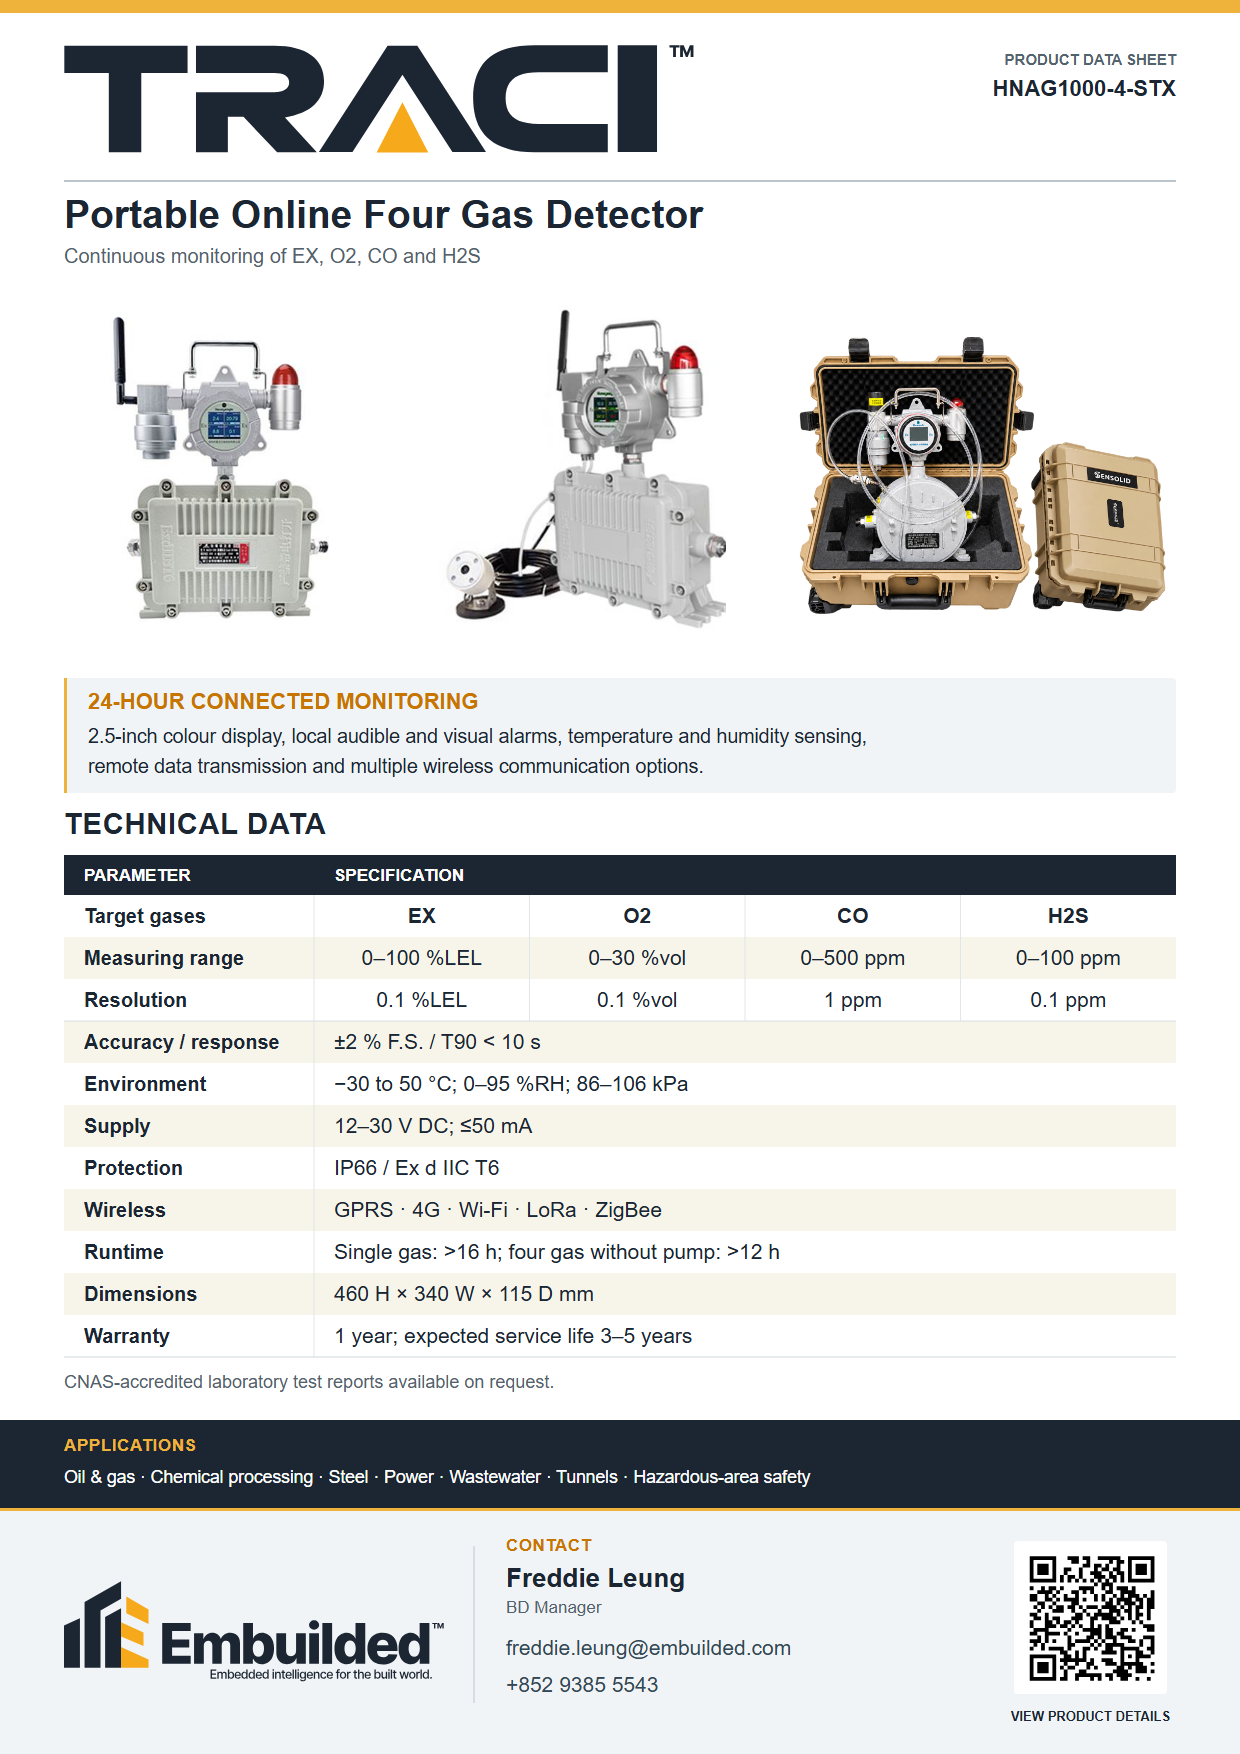
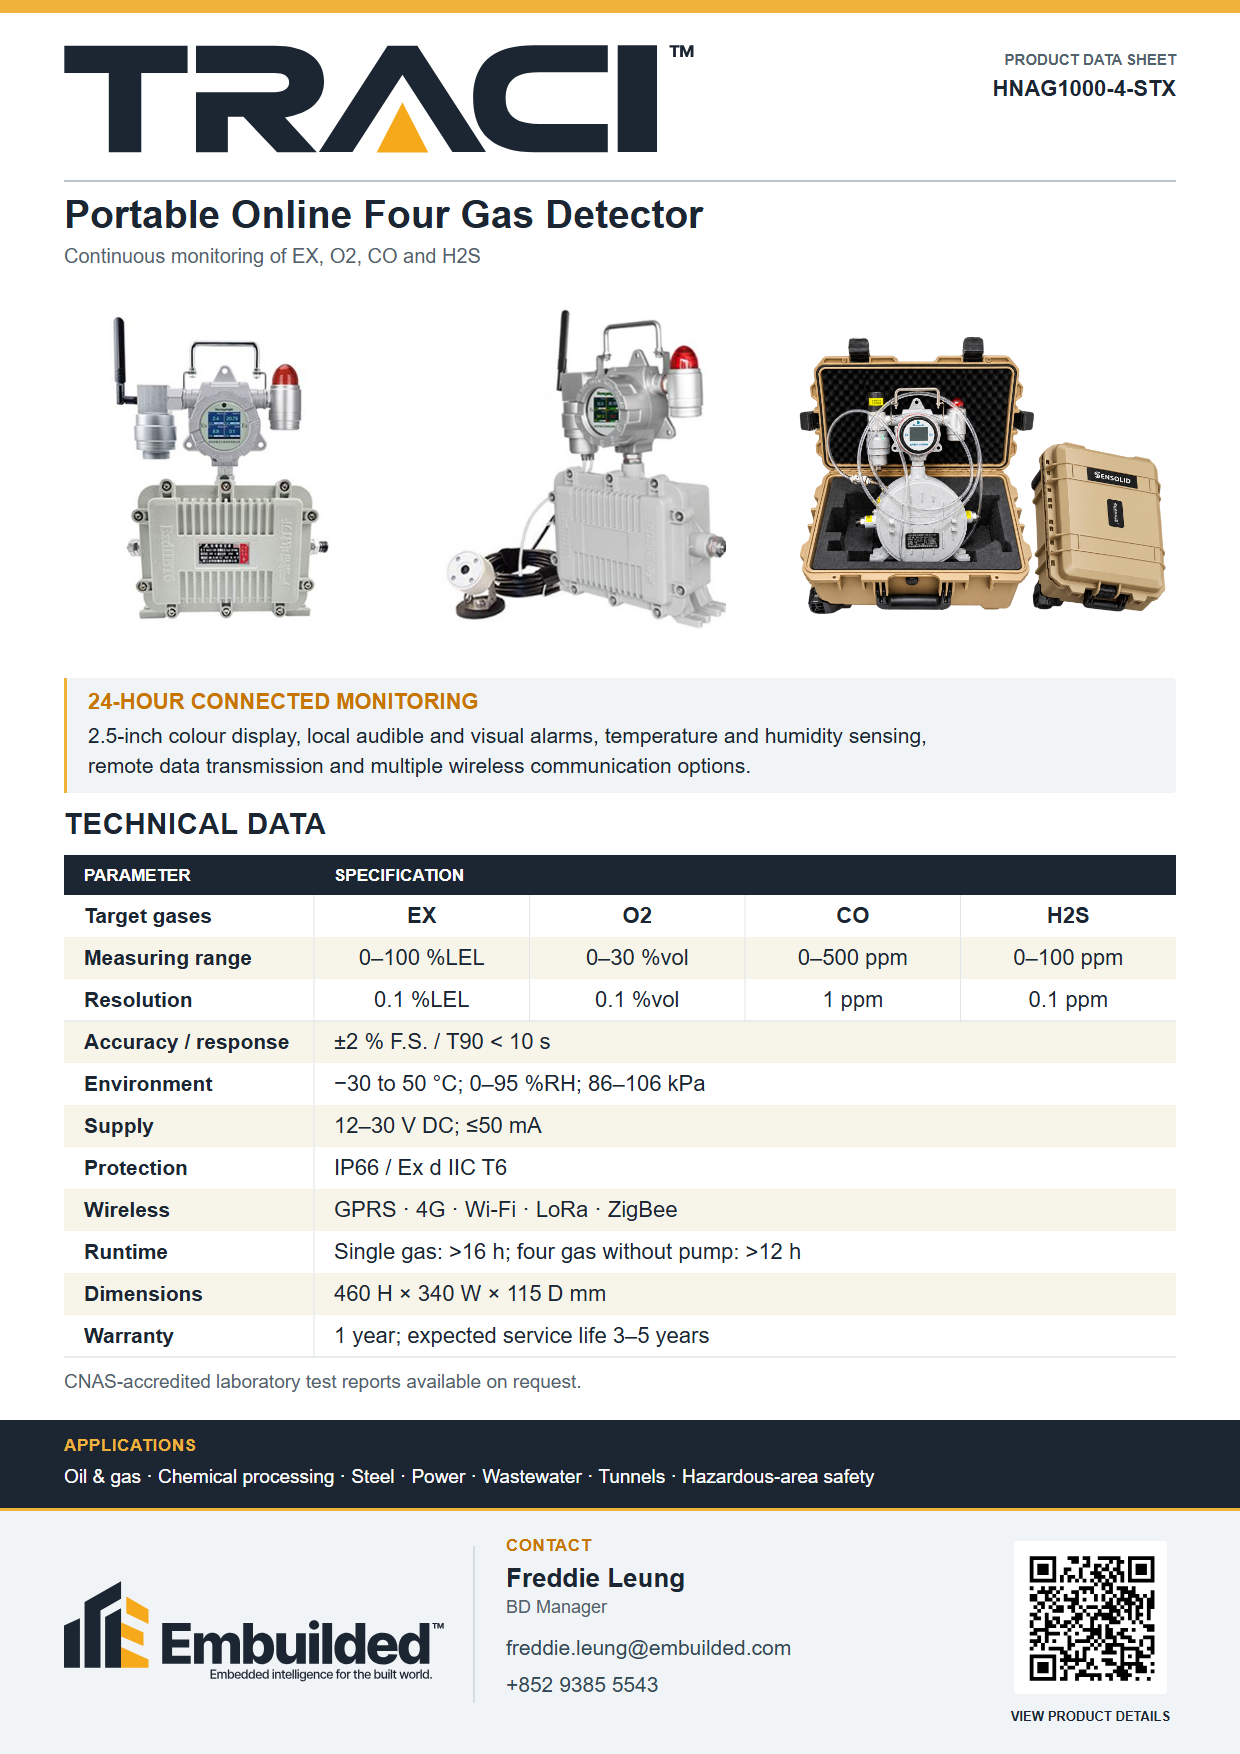
Increase brochure body text legibility

diff --git a/brochure/build_gas_sensor_1240.py b/brochure/build_gas_sensor_1240.py
@@ -75,8 +75,8 @@ page.append(case)
 rect(64, 678, 1112, 115, '#F1F4F6', rx=4)
 rect(64, 678, 3, 115, AMBER)
 text(88, 709, '24-HOUR CONNECTED MONITORING', 22, 700, TEXT_AMBER)
-text(88, 743, '2.5-inch colour display, local audible and visual alarms, temperature and humidity sensing,', 19.5)
-text(88, 773, 'remote data transmission and multiple wireless communication options.', 19.5)
+text(88, 743, '2.5-inch colour display, local audible and visual alarms, temperature and humidity sensing,', 21)
+text(88, 773, 'remote data transmission and multiple wireless communication options.', 21)
 
 text(64, 834, 'TECHNICAL DATA', 29, 700, letter_spacing='.8')
 # One header covers the complete table. The first three rows share four gas columns.
@@ -91,9 +91,9 @@ for idx, (label, values) in enumerate([
 ]):
     y = 895 + idx * 42
     rect(64, y, 1112, 42, 'white' if idx % 2 == 0 else '#F7F4EA')
-    text(84, y + 28, label, 20, 700)
+    text(84, y + 28, label, 21, 700)
     for x, value in zip(centres, values):
-        text(x, y + 28, value, 21, 700 if idx == 0 else 400, text_anchor='middle')
+        text(x, y + 28, value, 22, 700 if idx == 0 else 400, text_anchor='middle')
 for x in [529.5, 745, 960.5]:
     line(x, 895, x, 1021, '#E1E6E9')
 
@@ -110,18 +110,18 @@ rows = [
 for idx, (label, value) in enumerate(rows):
     y = 1021 + idx * 42
     rect(64, y, 1112, 42, '#F7F4EA' if idx % 2 == 0 else 'white')
-    text(84, y + 28, label, 20, 700)
-    text(334, y + 28, value, 21)
+    text(84, y + 28, label, 21, 700)
+    text(334, y + 28, value, 22)
 line(314, 895, 314, 1357, '#E1E6E9')
 # Subtle division between the gas-specific measurements and general specifications.
 line(64, 1021, 1176, 1021, '#D7DFE4', 1.2)
 line(64, 1357, 1176, 1357, '#CFD8DE')
 # Service availability supplied by the user; do not depict it as product accreditation.
-text(64, 1388, 'CNAS-accredited laboratory test reports available on request.', 18, color=MUTED)
+text(64, 1388, 'CNAS-accredited laboratory test reports available on request.', 19, color=MUTED)
 
 rect(0, 1420, 1240, 88, INK)
 text(64, 1451, 'APPLICATIONS', 17, 700, AMBER, letter_spacing='.6')
-text(64, 1483, 'Oil & gas · Chemical processing · Steel · Power · Wastewater · Tunnels · Hazardous-area safety', 17.5, color='white')
+text(64, 1483, 'Oil & gas · Chemical processing · Steel · Power · Wastewater · Tunnels · Hazardous-area safety', 19, color='white')
 rect(0, 1508, 1240, 3, AMBER)
 rect(0, 1511, 1240, 243, '#F1F4F6')
 
@@ -132,7 +132,7 @@ for n in parts[67:121]:
 line(474, 1546, 474, 1703, '#CED7DD', 1.5)
 text(506, 1551, 'CONTACT', 17, 700, TEXT_AMBER, letter_spacing='.5')
 text(506, 1587, 'Freddie Leung', 26, 700)
-text(506, 1613, 'BD Manager', 17, color=MUTED)
+text(506, 1613, 'BD Manager', 18, color=MUTED)
 text(506, 1655, 'freddie.leung@embuilded.com', 21, color='#324955')
 text(506, 1692, '+852 9385 5543', 21, color='#324955')
 rect(1014, 1541, 153, 153, 'white', rx=4)
